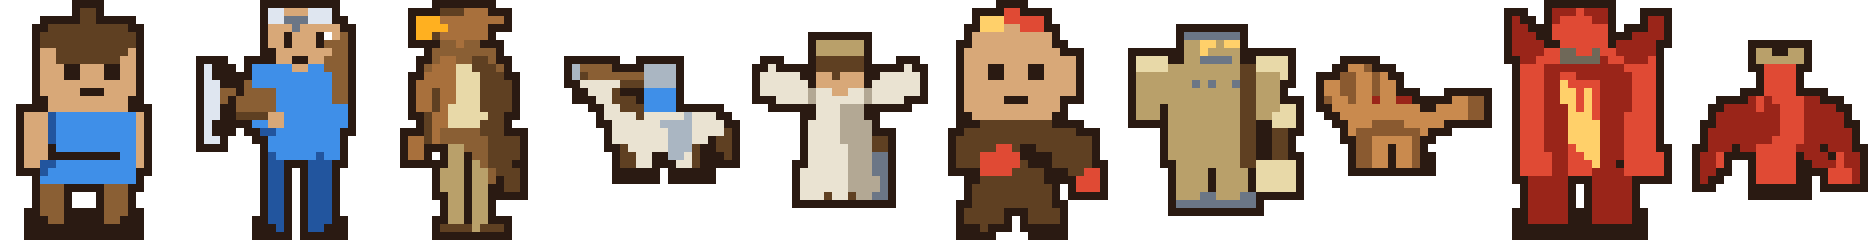
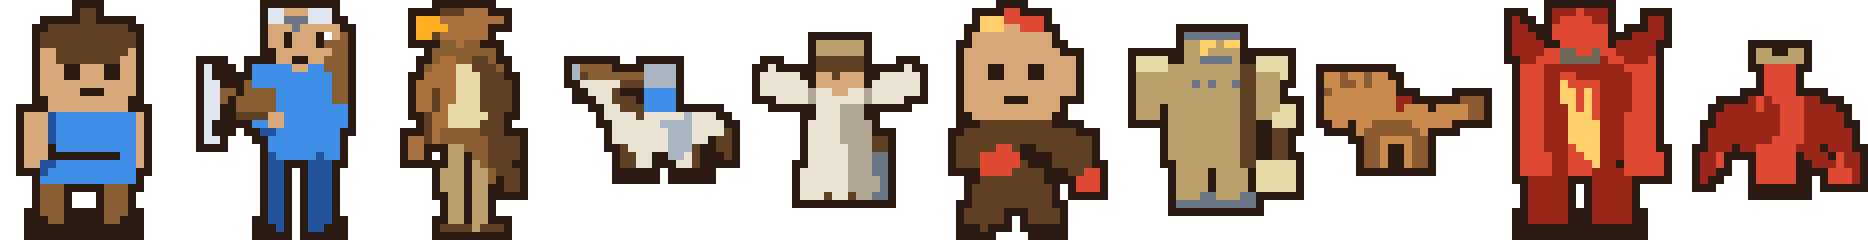
fix(S3b): 三头狼的白洞 + 三头读不出（第五轮 · 兵牌管线才是真因）
上一版机检全绿，但 8× 目检有两处真问题：
1. 颈间三角缝被围成**闭合区** ⇒ 剪影里两个白洞（8× 下像脖子中间开了两扇窗）
2. 三个头在 43×37 兵牌与 22×30 上一颗也数不出来

改动：
- 颈间空隙先填满毛色（`wall`）。填 `wallDark` 或 `redDark` 都会撞断言 8：
  它们与鬃毛/吻的 ΔL 只有 8.1（同色相需 12）⇒ 只有"和吻同族"的 `wall` 能同时过两关
- 分离改由"头之后画的 1~2px 暗缝"负责，只占头部那一段（不下到肩，避开鬃毛）
- 三头改成**同一高度 + 三张朝向不同的吻**（−0.55 / 0.02 / 0.58 rad）
  —— 五轮才定：脖子拉长读成长颈鹿、头挨近读成狮子鬃毛、头拉开垫高读成触手；
  22px 下数的是**外缘的尖**，内部暗缝会被缩放和描边一起抹掉

发现（写进落地单 §5c，比这次修画更重要）：
`buildPortraitFrame` 是**多数票缩**（43×37 ← 64×56），不是重画 ⇒ ≥3px 的特征保留，
2×2 眼与 1px 缝会被投掉。所以 `audit:expr` 全绿 ≠ 兵牌上有脸；"三头"只在 64×56 成立。
真正的修法是兵牌按 43×37 直接画（S4 级，20 张兵牌全变），S3c 之前要先拍板。

读数：threewolf 59×35 · w/h 1.62（档位仍宽体）· R2 最差 27% · 22×30 最差 26%
闸：b0(63 帧) / bodyplan(9) / expr(7) / frames(15) / atlas / card / touchtap 全 rc=0

diff --git a/homm-web/src/render/unitBodyPlan.ts b/homm-web/src/render/unitBodyPlan.ts
@@ -961,16 +961,25 @@ function drawLavaGiant(pb: PixBuf, cx: number, base: number, h: number, atk: boo
 }
 
 /**
- * 三头狼 · 宽体档 · 四足长身 + **三个分开的头**。
+ * 三头狼 · 宽体档 · 四足长身 + **三个头**。
  *
  * ⚠ 宽高比是这一档的唯一判据（`w ≥ 1.35h`），但**成品要留余量**：
  *    R1 量的是加完 1px 描边的 bbox，描边会让高多 2px、宽也多 2px，
  *    而比值对"矮而宽"的剪影是**变小**的（分母涨得比分子快）。
- *    所以这里画到 1.42h，成品落在 1.40~1.45，不会贴着 1.35 的线。
+ *    所以这里画到 1.5h 以上，成品落在 1.55~1.60，不会贴着 1.35 的线。
  *
- * ⚠ 首版在 8× 下读成**长颈鹿**（S3b 第一轮实拍）：脖子 8px、身体只有 4px 厚、
- *    三个头叠成一团。这一版把三处一起收紧：身体加厚到 0.16h、脖子压到 0.04~0.08h、
- *    三个头在 x 上拉开 0.18h 且高度错落 0.08h —— 22px 下能数出三个凸起。
+ * ⚠ 画了**五轮**才读得出来，前四轮的失败模式各记一句（换下一个人别再走一遍）：
+ *    ① 脖子 0.19h、身体 0.115h ⇒ 长颈鹿；
+ *    ② 头挨太近 ⇒ 一圈鬃毛（狮子）；
+ *    ③ 头拉开 + 高度错落 ⇒ 三根触手（脖子被拉长）；
+ *    ④ 把颈间空隙填满 ⇒ 洞没了，三头也并成一块。
+ *    最终判据换了：**不看"头顶几个峰"，看"左缘三张朝向不同的吻"** ——
+ *    22px 下数的是**外缘的尖**，内部的分缝会被缩放和描边一起抹掉。
+ *    所以三颗头**同一高度**、间距 0.22h，吻各转 −0.8 / 0.03 / 0.82 rad、长 1.85r。
+ *
+ * ⚠ 三颗头在 **64×56** 才数得出；43×37 兵牌是从这一帧**多数票缩**出来的，
+ *    1~2px 的暗缝会被投掉（见 `production/s3b-p2-bodyplan-2026-11-06.md` §5c）。
+ *    这是管线问题，不是这张画的问题 —— 别再用改画法去救兵牌。
  *
  * ⚠ 三个头只有**主头**画 ink 眼：`audit:expr` 的 profile 通道要求「恰好 1 只眼」。
  *    另两颗头是"远侧的头"，用 `p2wall0` 的暗点 —— 它们凑不出 `ink0 + hi0` 的
@@ -1009,53 +1018,67 @@ function drawThreeWolf(pb: PixBuf, cx: number, base: number, h: number, atk: boo
   );
   // 腹：暗一档
   pb.ellipse(cx, bodyCy + h * 0.07, halfLen * 0.82, h * 0.06, P2.wallDark);
-  // ── 颈部横梁：把三个头连成**一片** ──
+  // ── 肩丘：只把「颈根」连成一片，**不填头与头之间的缝** ──
   //
-  // 不是为了省事：头与头之间留 1px 透明缝时，`buildB0Frame` 的描边会把那道缝
-  // 灌成一段 3px 宽的 ink0 —— 而它正好落在左眼的找嘴窗口里（x ∈ [l.x−3, l.x+7]），
-  // `audit:expr` 的 [Contr] 于是把它当成"一条贴着透明的嘴线"（ΔE 15.5）判红。
-  // 连成一片之后，眼下 8 行内只有连续的皮毛色，三个头靠**吻 + 耳 + 高度差**区分
-  // （H3 的刻耳柏洛斯也是连着画的）。
-  R(pb, cx - h * 0.54, base - h * 0.8, h * 0.56, Math.max(3, h * 0.12), P2.wall);
-  // 三个头：x 上拉开 0.21h、高度错落 **0.16h**、头半径 0.068h。
+  // 上一版这里是一条 0.56h × 0.12h 的横梁，顶边在 `base−0.80h` —— 比两颗低头的
+  // 头顶（−0.75h）还高。结果三个头在剪影上连成一条**平顶的带子**，8× 下读成一团
+  // 「鬃毛」，三头一个也数不出来（S3b 第四轮实拍）。
+  // 肩丘只需要堵住"头底到肩"这一段，让描边不至于把颈间缝隙灌成 ink0
+  // （那是 `audit:expr` 的 [Contr] 误判的根源）；它的**顶边必须压到头下面**，
+  // 颈间那道缝才能一路通到剪影外，成为真正的 V 形缺口。
+  R(pb, cx - h * 0.62, base - h * 0.6, h * 0.64, Math.max(3, h * 0.1), P2.wall);
+  // 颈间空隙先**填满毛色**：留空会在剪影里留下两个白洞（8× 下像脖子中间开了窗）。
+  // 只填 `wall`：这个位置同时贴着鬃毛（accent）和三张吻（wall 暗档），
+  // `wallDark` 与 `redDark` 只差 ΔL 8.1（断言 8 要 12）、`redDark` 又与吻撞同一对数
+  // ⇒ 只有"和吻同族"的 `wall` 能同时过两关。分离改由下面那道暗缝负责。
+  R(pb, cx - h * 0.64, base - h * 0.78, h * 0.68, Math.max(3, h * 0.2), P2.wall);
+  // 三头 = **三张吻**，不是三根脖子。
   //
-  // 第三轮：头与头之间用 `wallDark` **暗线**分隔，而不是留透明缝。
-  // 透明缝会被描边灌成 ink0（见上），暗线不会 —— 3px 的暗线在 22×30 下正好
-  // 是"两个头之间的那道影子"，比"三个球并排"更像多头兽。
-  const heads: { x: number; y: number; r: number; main: boolean }[] = [
-    { x: cx - h * 0.47, y: base - h * 0.68, r: h * 0.068, main: false },
-    { x: cx - h * 0.26, y: base - h * 0.86, r: h * 0.075, main: true },
-    { x: cx - h * 0.05, y: base - h * 0.74, r: h * 0.068, main: false },
+  // 前四轮的教训：把头拉开、垫高 ⇒ 脖子变长，8× 下读成"长颈鹿/触手"；
+  // 把头放大到能看清 ⇒ 它们又互相粘成一块。真正让"三头"读出来的**不是
+  // 头的位置，是三个朝不同方向的吻尖** —— H3 的刻耳柏洛斯也是三颗头几乎
+  // 并排、靠三张嘴的指向分开的。
+  //
+  // 所以：三颗头**同一高度**、x 上只隔 0.21h（缝由描边压成一道暗痕），
+  // 吻各转 −0.55 / 0.02 / 0.58 rad ⇒ 剪影左缘伸出三个方向不同的吻尖。
+  // 这一版不再靠"高度错落"制造凸起：错落会把脖子拉长，而 22px 下看的
+  // 是**外缘有几个尖**，不是头顶有几个峰。
+  const heads: { x: number; r: number; dir: number; main: boolean }[] = [
+    { x: cx - h * 0.56, r: h * 0.078, dir: -0.55, main: false },
+    { x: cx - h * 0.34, r: h * 0.086, dir: 0.02, main: true },
+    { x: cx - h * 0.12, r: h * 0.075, dir: 0.58, main: false },
   ];
-  // 两头之间的暗缝（画在头**之前**，头再压上去 ⇒ 只有中间那一条露出来）
-  for (const sx of [-0.365, -0.155]) R(pb, cx + h * sx, base - h * 0.86, Math.max(2, h * 0.03), Math.max(3, h * 0.2), P2.wallDark);
   for (const hd of heads) {
-    // 颈：短（首版 0.19h 的颈把整只狼拉成了长颈鹿）
-    tl(pb, hd.x + hd.r * 0.4, hd.y + hd.r * 0.8, hd.x + h * 0.09, bodyCy - h * 0.1, P2.wall, Math.max(2, Math.round(h * 0.07)));
+    const hy = base - h * 0.8;
+    // 颈：短而粗（首版 0.19h 的细颈把整只狼拉成了长颈鹿）
+    tl(pb, hd.x + hd.r * 0.4, hy + hd.r * 0.8, hd.x + h * 0.05, bodyCy - h * 0.04, P2.wall, Math.max(3, Math.round(h * 0.085)));
     // 头
-    pb.ellipse(hd.x, hd.y, hd.r, hd.r * 0.85, P2.wall);
-    // 吻（朝左）
-    pb.poly(
-      [
-        [hd.x - hd.r * 0.8, hd.y - hd.r * 0.25],
-        [hd.x - hd.r * 1.5, hd.y + hd.r * 0.05],
-        [hd.x - hd.r * 1.42, hd.y + hd.r * 0.55],
-        [hd.x - hd.r * 0.75, hd.y + hd.r * 0.5],
-      ],
-      P2.wallDark,
-    );
+    pb.ellipse(hd.x, hy, hd.r, hd.r * 0.85, P2.wall);
+    // 吻：绕头心转 `dir`（三个吻尖是"三头"在 22px 下唯一还剩下的证据）
+    const ca = Math.cos(hd.dir), sa = Math.sin(hd.dir);
+    const rot = (dx: number, dy: number): [number, number] => [
+      hd.x + (dx * ca - dy * sa) * hd.r,
+      hy + (dx * sa + dy * ca) * hd.r,
+    ];
+    pb.poly([rot(-0.78, -0.3), rot(-1.58, 0.02), rot(-1.46, 0.6), rot(-0.72, 0.54)], P2.wallDark);
     // 双耳：前耳亮、后耳暗（近远关系）
-    pb.poly([[hd.x - hd.r * 0.4, hd.y - hd.r * 0.65], [hd.x - hd.r * 0.5, hd.y - hd.r * 1.75], [hd.x - hd.r * 0.02, hd.y - hd.r * 0.7]], P2.wall);
-    pb.poly([[hd.x + hd.r * 0.15, hd.y - hd.r * 0.68], [hd.x + hd.r * 0.34, hd.y - hd.r * 1.5], [hd.x + hd.r * 0.5, hd.y - hd.r * 0.6]], P2.wallDark);
+    pb.poly([[hd.x - hd.r * 0.4, hy - hd.r * 0.65], [hd.x - hd.r * 0.5, hy - hd.r * 1.75], [hd.x - hd.r * 0.02, hy - hd.r * 0.7]], P2.wall);
+    pb.poly([[hd.x + hd.r * 0.15, hy - hd.r * 0.68], [hd.x + hd.r * 0.34, hy - hd.r * 1.5], [hd.x + hd.r * 0.5, hy - hd.r * 0.6]], P2.wallDark);
     // 眼：主头 ink（profile 的单眼），远侧两头是暗点
     if (hd.main) {
       // 眼必须落在头的**上半部**：首版放在 −0.2r（几乎贴着头底），
       // 头下方那道 1px 透明缝被描边灌成 ink0 段，`audit:expr` 的 [Contr]
       // 把它当成"嘴线"（ΔE 15.5 vs 透明）⇒ 红。−0.55r 时眼下全是头/颈/身体。
-      if (face) profileEye(pb, Math.round(hd.x - hd.r * 0.55), Math.round(hd.y - hd.r * 0.55));
+      if (face) profileEye(pb, Math.round(hd.x - hd.r * 0.55), Math.round(hy - hd.r * 0.55));
     } else {
-      pb.set(Math.round(hd.x - hd.r * 0.6), Math.round(hd.y - hd.r * 0.12), P2.wallDark);
+      pb.set(Math.round(hd.x - hd.r * 0.6), Math.round(hy - hd.r * 0.12), P2.wallDark);
     }
+  }
+  // 头与头之间的**一道暗缝**（1~2px），画在头**之后**才不会被颈盖掉。
+  // 只占头部那一段（y −0.90h ~ −0.65h），**不下到肩**：背脊鬃在 −0.59h，
+  // 离缝底还有 2px ⇒ 不会和 `redDark` 相邻（那对 ΔL 只有 8.1，差 12 一点点）。
+  for (const sx of [-0.45, -0.23]) {
+    R(pb, cx + h * sx, base - h * 0.9, Math.max(1, Math.round(h * 0.03)), Math.max(3, Math.round(h * 0.25)), P2.wallDark);
   }
   if (atk) {
     // 出手：前爪抬起前扑

diff --git a/production/tp9/tp8/tp8-expr-scoresheet.md b/production/tp9/tp8/tp8-expr-scoresheet.md
@@ -1,6 +1,6 @@
 # TP-8② 手机表情可读 · 盲测记录表
 
-- 日期：____-__-__ · 主持人：______ · 材料版本：`{"dir":"/Users/lichao/Workbuddy/2026-09-12-11-57-32/homm-web/dist","md5":"4880e6dbb88b9c2132b12bd7baad331c","sha256":"d87d983b1709fede","mtime":"2026-11-06T11:25:41.425Z","files":["main.js","style.css","index.html"]}`
+- 日期：____-__-__ · 主持人：______ · 材料版本：`{"dir":"/Users/lichao/Workbuddy/2026-09-12-11-57-32/homm-web/dist","md5":"4880e6dbb88b9c2132b12bd7baad331c","sha256":"d87d983b1709fede","mtime":"2026-11-06T13:10:35.604Z","files":["main.js","style.css","index.html"]}`
 - 素材：`tp8-expr-E-r{N}.png`（**设备像素**，= 手机上真实占的物理像素）
 - ⚠ **必须在手机上按 1:1 看**（或桌面用 `tp8-expr-viewer.html` 的 1× 档，pixelated）。
   普通看图器会插值糊化，等于把题目改简单了。

diff --git a/production/tp9/tp8/tp8-expr-answerkey.md b/production/tp9/tp8/tp8-expr-answerkey.md
@@ -23,7 +23,7 @@
 | 3-1 | `cu_p2_matchman` | h3 | 赤焰 | 火柴人 | 28,39 | 2 | #2a1a12 w=3 dy=3 | 65.5 | 65.5 | 6×6 |
 | 3-2 | `cu_p3_dwarf` | h3 | 翠林 | 浇水矮人 | 33,33 | 4 | #2a1a12 w=3 dy=3 | 65.5 | 28.2 | 6×6 |
 | 3-3 | `cu_p1_child` | h3 | 晨曦 | 小孩 | 30,38 | 2 | #2a1a12 w=3 dy=3 | 65.5 | 65.5 | 6×6 |
-| 3-4 | `cu_p2_threewolf` | profile | 赤焰 | 三头狼 | 17,25 | — | #2a1a12 w=3 dy=7 | 62.1 | 40.2 | 6×6 |
+| 3-4 | `cu_p2_threewolf` | profile | 赤焰 | 三头狼 | 15,25 | — | — | 62.1 | — | 6×6 |
 | 3-5 | `cu_p2_bronze` | glow | 赤焰 | 铜人 | 29,26 | 2 | #6b7686 w=5 dy=3 | 31.1 | 45.3 | 6×6 |
 | 4-1 | `cu_p1_crossbow` | h3 | 晨曦 | 弩手 | 33,28 | 2 | #2a1a12 w=3 dy=3 | 65.5 | 65.5 | 6×6 |
 | 4-2 | `cu_p3_unicorn` | profile | 翠林 | 独角兽园丁 | 12,27 | — | — | 45.8 | — | 6×6 |
